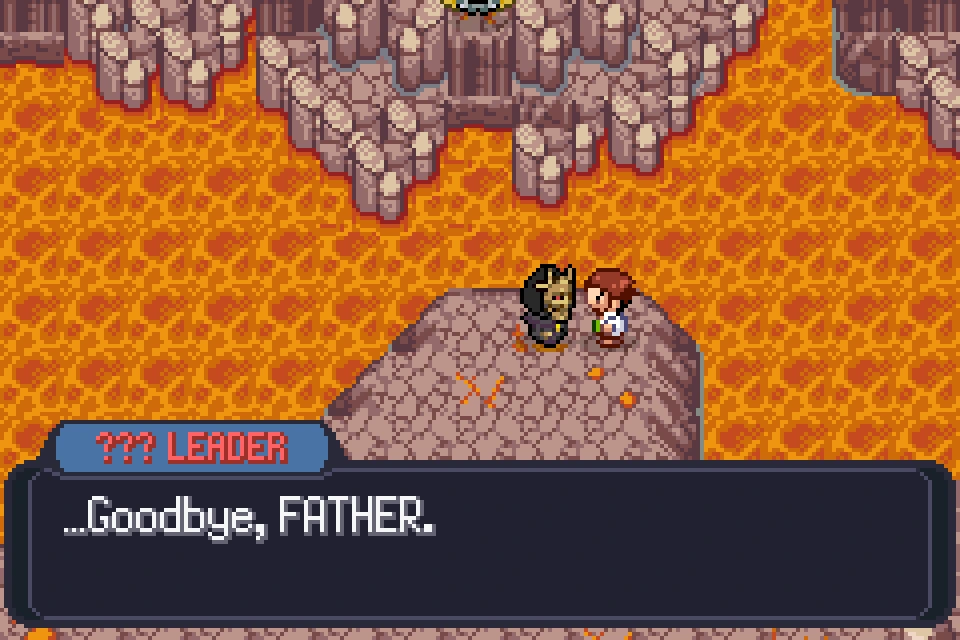
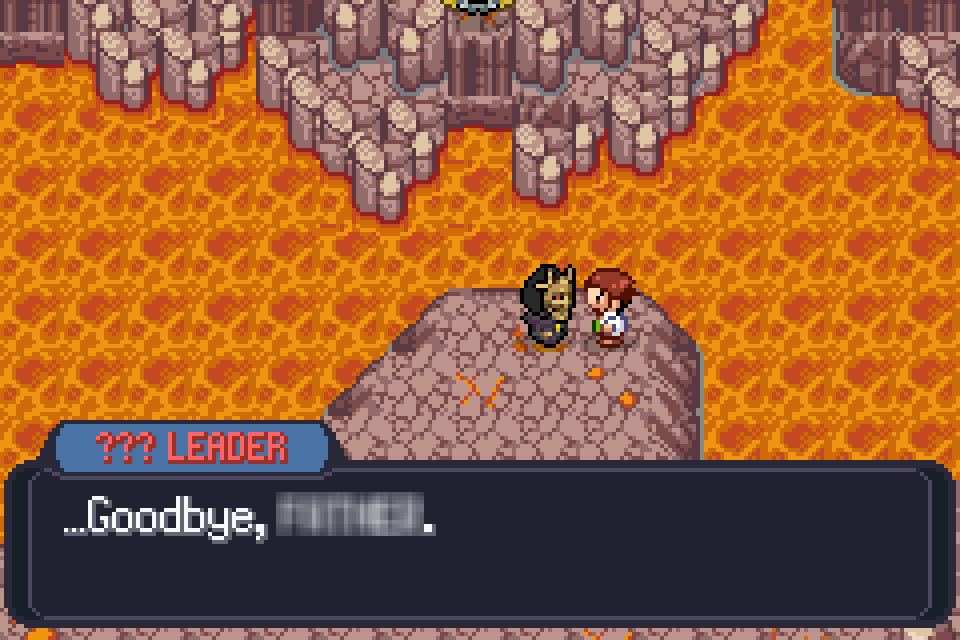
Site: screenshots become a scrollable rail, changelog becomes bullets
Adds seven captures from the hackdex set and swaps the summit reveal for the
censored version. Stills are upscaled 4x with NEAREST to match the existing
960x640 assets; the three animations stay at the GBA's native 240x160, since a
4x animated webp of 127 frames is huge for no gain and 240x160 is the same 3:2
the tile already expects. All eight come to 247 KB.

The hackdex doubles.png is left out on purpose - it is the same shot as the
existing doubles.webp, just at native resolution, and would have put the same
battle on screen twice.

Thirteen tiles is a wall as a grid, so the screenshots now share .cast-rail's
scroller rather than getting one of their own: same gesture handling, same
snap, one place to fix it. Checked at 375x812 and on desktop - the tile is 78%
of a phone screen so the next one peeks in, snap engages, the wheel moves the
rail sideways, and at the far end the wheel is handed back to the page so
scrolling never traps. The page itself never scrolls sideways.

The rail hook is now [data-rail] and the JS loops over every match; it used
querySelector before and would have ignored the second rail entirely.

Marquee gains RANDOMIZER MODE (in both copies - the duplicate is what makes
the loop seamless). Changelog is short bullets now, detail left to GitHub.

diff --git a/docs/index.html b/docs/index.html
@@ -93,8 +93,8 @@
   <!-- ── marquee ────────────────────────────────────────────────────── -->
   <div class="marquee" aria-hidden="true">
     <div class="marquee-track">
-      <span>GENS I–X</span><span class="d">◆</span><span>64 NEW MAPS</span><span class="d">◆</span><span>12 TRACKED QUESTS</span><span class="d">◆</span><span>4 SECRET BOSS FIGHTS</span><span class="d">◆</span><span>PLAY IT NOW IN BROWSER</span><span class="d">◆</span><span>NEW QOL AND BATTLE MECHANICS</span><span class="d">◆</span>
-      <span>GENS I–X</span><span class="d">◆</span><span>64 NEW MAPS</span><span class="d">◆</span><span>12 TRACKED QUESTS</span><span class="d">◆</span><span>4 SECRET BOSS FIGHTS</span><span class="d">◆</span><span>PLAY IT NOW IN BROWSER</span><span class="d">◆</span><span>NEW QOL AND BATTLE MECHANICS</span><span class="d">◆</span>
+      <span>GENS I–X</span><span class="d">◆</span><span>RANDOMIZER MODE</span><span class="d">◆</span><span>64 NEW MAPS</span><span class="d">◆</span><span>12 TRACKED QUESTS</span><span class="d">◆</span><span>4 SECRET BOSS FIGHTS</span><span class="d">◆</span><span>PLAY IT NOW IN BROWSER</span><span class="d">◆</span><span>NEW QOL AND BATTLE MECHANICS</span><span class="d">◆</span>
+      <span>GENS I–X</span><span class="d">◆</span><span>RANDOMIZER MODE</span><span class="d">◆</span><span>64 NEW MAPS</span><span class="d">◆</span><span>12 TRACKED QUESTS</span><span class="d">◆</span><span>4 SECRET BOSS FIGHTS</span><span class="d">◆</span><span>PLAY IT NOW IN BROWSER</span><span class="d">◆</span><span>NEW QOL AND BATTLE MECHANICS</span><span class="d">◆</span>
     </div>
   </div>
 
@@ -104,7 +104,7 @@
       <div class="kicker">WHO YOU'LL MEET</div>
       <div class="rail-hint">scroll →</div>
     </div>
-    <div class="cast-rail" data-cast-rail>
+    <div class="cast-rail" data-rail>
       <article class="cast" data-reveal>
         <div class="cast-art"><img src="assets/art/clarkson.webp" width="560" height="560" loading="lazy" alt="Professor Clarkson"><span class="scanlines"></span></div>
         <div class="cast-body">
@@ -206,19 +206,46 @@
       <span class="trailer-label">TRAILER<br><span>COMING SOON</span></span>
     </div>
 
-    <div class="kicker mt" data-reveal>SCREENSHOTS</div>
-    <div class="shot-grid">
+    <div class="rail-head mt" data-reveal>
+      <div class="kicker">SCREENSHOTS</div>
+      <div class="rail-hint">scroll →</div>
+    </div>
+    <div class="shot-rail" data-rail>
+      <figure class="shot" data-reveal>
+        <img src="assets/media/title-screen.webp" width="240" height="160" loading="lazy" alt="The animated title screen: a nebula over a snow-capped peak, the Pokémon logo, and Shadow Jirachi hovering above the summit.">
+        <figcaption><b>TITLE SCREEN</b><span>NEW IN 1.2.1</span></figcaption>
+      </figure>
+      <figure class="shot" data-reveal>
+        <img src="assets/media/siren-allison.webp" width="240" height="160" loading="lazy" alt="Siren Allison's name banner sweeping across the screen as she swims in toward the beach.">
+        <figcaption><b>SIREN ALLISON</b><span>BOSS FIGHT</span></figcaption>
+      </figure>
+      <figure class="shot" data-reveal>
+        <img src="assets/media/shin-tokyo.webp" width="240" height="160" loading="lazy" alt="A rain-lit Shin-Tokyo street at night, with a cycling ALL HAIL billboard and patrolling guards.">
+        <figcaption><b>SHIN-TOKYO</b><span>OVERWORLD</span></figcaption>
+      </figure>
       <figure class="shot" data-reveal>
         <img src="assets/media/doubles.webp" width="960" height="640" loading="lazy" alt="A double battle: Baxcalibur and Armor Mewtwo facing Rayquaza and Dracovish, with the battle menu open.">
         <figcaption><b>DOUBLE BATTLE</b><span>BATTLE</span></figcaption>
+      </figure>
+      <figure class="shot" data-reveal>
+        <img src="assets/media/shadow-jirachi.webp" width="960" height="640" loading="lazy" alt="A battle against a Shadow Jirachi, its move list showing Meteor Mash, Healing Wish, Rest and Future Sight.">
+        <figcaption><b>SHADOW JIRACHI</b><span>BATTLE</span></figcaption>
+      </figure>
+      <figure class="shot" data-reveal>
+        <img src="assets/media/summit-reveal.webp" width="960" height="640" loading="lazy" alt="Two figures facing each other on a rock above molten ground, mid-confrontation.">
+        <figcaption><b>THE SUMMIT REVEAL</b><span>STORY</span></figcaption>
+      </figure>
+      <figure class="shot" data-reveal>
+        <img src="assets/media/edwards.webp" width="960" height="640" loading="lazy" alt="General Edwards on a rain-lashed dock, telling the player that use of deadly force is authorized.">
+        <figcaption><b>GENERAL EDWARDS</b><span>STORY</span></figcaption>
       </figure>
       <figure class="shot" data-reveal>
         <img src="assets/media/munen-lake.webp" width="832" height="444" loading="lazy" alt="Munen Lake overworld: a frozen surface with cracked ice tiles and boulders.">
         <figcaption><b>MUNEN LAKE</b><span>OVERWORLD</span></figcaption>
       </figure>
       <figure class="shot" data-reveal>
-        <img src="assets/media/edwards.webp" width="960" height="640" loading="lazy" alt="General Edwards on a rain-lashed dock, telling the player that use of deadly force is authorized.">
-        <figcaption><b>GENERAL EDWARDS</b><span>STORY</span></figcaption>
+        <img src="assets/media/ryuden-island.webp" width="960" height="640" loading="lazy" alt="Arriving on Ryuden Island, its name card shown across the top of a palm-lined shore.">
+        <figcaption><b>RYUDEN ISLAND</b><span>OVERWORLD</span></figcaption>
       </figure>
       <figure class="shot" data-reveal>
         <img src="assets/media/battle-beach.webp" width="1024" height="448" loading="lazy" alt="Coastal battle backdrop with palm trees and surf on pale sand.">
@@ -229,8 +256,12 @@
         <figcaption><b>LAKE ENCOUNTER</b><span>BATTLE</span></figcaption>
       </figure>
       <figure class="shot" data-reveal>
-        <img src="assets/media/summit-reveal.webp" width="960" height="640" loading="lazy" alt="Two figures facing each other on a rock above molten ground, mid-confrontation.">
-        <figcaption><b>THE SUMMIT REVEAL</b><span>STORY</span></figcaption>
+        <img src="assets/media/region-map.webp" width="960" height="640" loading="lazy" alt="The region map open on the FLY screen with Shin-Tokyo selected.">
+        <figcaption><b>THE REGION MAP</b><span>POST-GAME</span></figcaption>
+      </figure>
+      <figure class="shot" data-reveal>
+        <img src="assets/media/private-jet.webp" width="960" height="640" loading="lazy" alt="Nessa beside a parked jet, telling the player that FLY and the PJ will take them anywhere.">
+        <figcaption><b>THE PRIVATE JET</b><span>POST-GAME</span></figcaption>
       </figure>
     </div>
   </section>
@@ -369,22 +400,45 @@
         <div class="change" data-reveal>
           <span class="change-dot"></span>
           <div class="change-head"><span class="change-v">v1.2.1</span><span class="change-date">28 August 2026</span></div>
-          <p>Hotfix. Shadow Pokémon can Mega Evolve while holding their stone, and any Pokémon carrying one now shows its Mega form on the Hall of Fame and resume screens. The Jirachi waiting at the summit is the right one. The ship at the end of the story sails again, to the post-game Battle Frontier. Siren Allison spots you from the water, swims in and comes ashore to battle. New title screen. Save-compatible with v1.2.0.</p>
+          <ul>
+            <li>Defragmented Siren Allison. She swims now.</li>
+            <li>Restored Shadow Jirachi's aura — the wrong Jirachi had been turning up to its own boss fight.</li>
+            <li>Upgraded the title screen art.</li>
+            <li>Added post-game Battle Frontier access. The ship accepts passengers at last.</li>
+            <li>Shadow Pokémon remembered how to Mega Evolve.</li>
+            <li>Megas now turn up for the Hall of Fame photo instead of reverting.</li>
+          </ul>
         </div>
         <div class="change" data-reveal>
           <span class="change-dot"></span>
           <div class="change-head"><span class="change-v">v1.2.0</span><span class="change-date">27 August 2026</span></div>
-          <p>Randomizer Mode: a settings screen at New Game rerolls starters, wild Pokémon and Trainer teams independently, with levels untouched and Shadow Pokémon left alone. A new dragon starter trio, a post-game chart for the archipelago, the yacht questline, Mega Stones, and a Game Corner worth spending coins at.</p>
+          <ul>
+            <li>Randomizer Mode. Reroll starters, wilds and Trainers — levels stay exactly where they were.</li>
+            <li>A dragon starter trio: Gible, Frigibax and Axew.</li>
+            <li>Mega Stones, three of them lying around the Distortion World.</li>
+            <li>A Game Corner that finally sells things worth the coins.</li>
+            <li>The yacht questline pays out.</li>
+          </ul>
         </div>
         <div class="change" data-reveal>
           <span class="change-dot"></span>
           <div class="change-head"><span class="change-v">v1.1.0</span><span class="change-date">13 August 2026</span></div>
-          <p>Name your own character at New Game. Custom battle backdrops across the whole region, day-to-night sea battles, and Shadow sprites that finally sit right. Post-game FLY reaches every area. Save-compatible with v1.0.0 — keep your run.</p>
+          <ul>
+            <li>Name your own character.</li>
+            <li>Custom battle backdrops region-wide, including sea battles that know what time it is.</li>
+            <li>Shadow sprites that sit right.</li>
+            <li>Post-game FLY reaches everywhere.</li>
+            <li>Save-compatible with v1.0.0 — keep your run.</li>
+          </ul>
         </div>
         <div class="change" data-reveal>
           <span class="change-dot"></span>
           <div class="change-head"><span class="change-v">v1.0.0</span><span class="change-date">12 August 2026</span></div>
-          <p>First public release. The full three-act campaign, an original region, and the Shadow capture-and-purification system.</p>
+          <ul>
+            <li>The whole three-act campaign.</li>
+            <li>An original region.</li>
+            <li>Shadow Pokémon: snag them, purify them.</li>
+          </ul>
         </div>
       </div>
       <p class="change-note" data-reveal>Every release is listed on the <a href="https://github.com/jmaloney95/Wishes-Game/releases">releases page</a>.</p>

diff --git a/docs/assets/styles.css b/docs/assets/styles.css
@@ -328,14 +328,13 @@ p { margin: 0; }
 .feature p { margin-top: 10px; font-size: 14.5px; line-height: 1.6; color: rgba(233, 233, 237, .66); text-wrap: pretty; }
 
 /* — media ──────────────────────────────────────────────────────────── */
-.shot-grid {
-  display: grid; grid-template-columns: repeat(auto-fit, minmax(280px, 1fr));
-  gap: 14px; margin-top: 20px;
-}
+/* .shot-rail shares .cast-rail's scroller below -- same gesture handling,
+   same snap, one place to fix it. */
 /* The tile owns the aspect ratio, not the image: the images carry width/height
    attributes, which would otherwise fix their height and leave CSS
    aspect-ratio with nothing to solve for. */
 .shot {
+  flex: 0 0 min(78vw, 330px); scroll-snap-align: start;
   position: relative;
   border-radius: var(--radius-md); overflow: hidden;
   background: var(--color-surface); box-shadow: var(--shadow-sm);
@@ -413,7 +412,8 @@ p { margin: 0; }
 .rail-head { display: flex; align-items: baseline; gap: 16px; }
 .rail-hint { font-size: 12.5px; white-space: nowrap; color: rgba(233, 233, 237, .4); }
 
-.cast-rail {
+.cast-rail,
+.shot-rail {
   display: flex; gap: 16px; margin: 14px calc(var(--gutter) * -1) 0;
   /* Vertical padding leaves room for the cards' hover lift and shadow, which
      overflow-y: hidden would otherwise crop. */
@@ -733,7 +733,12 @@ html.has-fs-player, html.has-fs-player body { overflow: hidden; }
 .change-head { display: flex; gap: 12px; align-items: baseline; flex-wrap: wrap; }
 .change-v { font-family: var(--font-pixel); font-size: 10px; }
 .change-date { font-size: 12.5px; color: rgba(233, 233, 237, .45); }
-.change p { margin-top: 8px; font-size: 14.5px; line-height: 1.6; color: rgba(233, 233, 237, .7); text-wrap: pretty; }
+.change ul { margin-top: 8px; padding-left: 17px; }
+.change li {
+  margin-top: 4px; font-size: 14.5px; line-height: 1.55;
+  color: rgba(233, 233, 237, .7); text-wrap: pretty;
+}
+.change li::marker { color: var(--color-accent); }
 .change-note { font-size: 13.5px; color: rgba(233, 233, 237, .45); }
 
 /* — faq ────────────────────────────────────────────────────────────── */
@@ -929,7 +934,6 @@ html.has-fs-player, html.has-fs-player body { overflow: hidden; }
   .section > h2 { margin-top: 12px; }
   .section h2.h-sm { margin: 12px 0 16px; }
 
-  .shot-grid { grid-template-columns: 1fr 1fr; gap: 10px; margin-top: 16px; }
   .shot figcaption { padding: 9px 10px; font-size: 7px; line-height: 1.7; }
 
   .feature-grid { gap: 12px; margin-top: 24px; }

diff --git a/docs/assets/site.js b/docs/assets/site.js
@@ -188,18 +188,20 @@
 
   /* ── horizontal cast rail: let a vertical wheel scroll it sideways ── */
   function wireCastRail() {
-    var rail = document.querySelector("[data-cast-rail]");
-    if (!rail) return;
-    rail.addEventListener("wheel", function (e) {
-      if (Math.abs(e.deltaX) > Math.abs(e.deltaY)) return;
-      var max = rail.scrollWidth - rail.clientWidth;
-      // Only hijack the wheel while the rail still has somewhere to go,
-      // so the page keeps scrolling normally at either end.
-      if ((e.deltaY < 0 && rail.scrollLeft > 0) || (e.deltaY > 0 && rail.scrollLeft < max)) {
-        e.preventDefault();
-        rail.scrollLeft += e.deltaY;
-      }
-    }, { passive: false });
+    // Every [data-rail] gets this, not just the cast: the screenshots are a
+    // rail too now, and a page with two of them should behave the same on both.
+    Array.prototype.forEach.call(document.querySelectorAll("[data-rail]"), function (rail) {
+      rail.addEventListener("wheel", function (e) {
+        if (Math.abs(e.deltaX) > Math.abs(e.deltaY)) return;
+        var max = rail.scrollWidth - rail.clientWidth;
+        // Only hijack the wheel while the rail still has somewhere to go,
+        // so the page keeps scrolling normally at either end.
+        if ((e.deltaY < 0 && rail.scrollLeft > 0) || (e.deltaY > 0 && rail.scrollLeft < max)) {
+          e.preventDefault();
+          rail.scrollLeft += e.deltaY;
+        }
+      }, { passive: false });
+    });
   }
 
   /* ── reveal on scroll ───────────────────────────────────────────── */

diff --git a/WoT_Act3_Status_Handoff.md b/WoT_Act3_Status_Handoff.md
@@ -338,6 +338,17 @@
 - **`release_notes_v1.1.0.md`** at workspace root — paste-ready for the GitHub release.
 - REMAINING (Joe / gh window): tag + publish the release with the bps attached; Pages redeploys the site on push.
 
+### 2026-08-28 (round 27) — site: screenshots become a rail, changelog becomes bullets (site only, no ROM change)
+- **Eight new media assets** built from `custom ui/Website Screenshots/hackdex/` into `docs/assets/media/`. Stills are upscaled **4x with NEAREST** to 960x640, matching the existing assets and guaranteeing crisp pixels whatever a browser does with `image-rendering: pixelated`. Animations stay at the GBA's native **240x160** — a 4x animated webp of 127 frames is enormous for no gain, and 240x160 is the same 3:2 the tile's `aspect-ratio` expects, so layout is identical either way. Total for all eight: **247 KB**.
+- **`summit-reveal.webp` was REPLACED with the censored capture** (the leader's name is redacted in-game art), as asked.
+- **`doubles.png` was deliberately NOT added** — compared against the existing `doubles.webp` and it is the same shot, just the native-resolution source of it. Adding it would have put the same battle on screen twice.
+- **WEBP ANIMATION GOTCHA:** PIL reports `duration = 0` for every frame of an animated webp on read-back, and coalesces identical consecutive frames (82 source frames of the near-static title screen became 6). Neither is a fault — parsing the container's **ANMF chunks** (24-bit LE duration at payload offset 12) shows the totals are preserved exactly: 2740 / 4250 / 3240 ms, identical to the source GIFs. **Verify webp timing by parsing ANMF, never by PIL read-back.**
+- **The screenshot grid became a rail**, sharing `.cast-rail`'s scroller rather than getting its own: same gesture handling, same snap, one place to fix it. 13 tiles. Verified in-browser at 375x812 and desktop: tile is 78% of a phone screen so the next peeks in, snap `x`/`start` engages (a set to 600 lands at 639), the wheel handler moves the rail horizontally, and **at the far end the wheel is NOT intercepted** so the page scrolls on normally. `document.scrollWidth == clientWidth` at mobile width — the page itself never scrolls sideways.
+- **`[data-cast-rail]` became `[data-rail]`** and the JS now loops over all of them; it previously used `querySelector` (singular) and would have ignored the second rail entirely.
+- **Marquee gained RANDOMIZER MODE.** It is duplicated twice in the markup to make the loop seamless — **both copies must change or the track jumps halfway through**.
+- **Changelog rewritten as short bullets** for all four versions, casual, with the detail left to GitHub. `.change p` styling replaced with `.change ul/li`.
+- **SPLICE GOTCHA (cost a wasted pass):** `s.index("      </div>")` matches INSIDE `"        </div>"` — six spaces are a substring of eight. The changelog splice ended at the first entry and silently left the rest of the old list behind, which only surfaced as a div-balance check (121 open / 122 close). **Anchor a line-oriented splice on `eol + indent + tag`, never the bare tag.** Tag-balance counts before and after are the cheap way to catch it: 115/115 div, 8/8 section, 14/14 figure, 4/4 ul.
+
 ### 2026-08-28 (round 26) — v1.2.1 hotfix released; site bumped; screenshots rewritten out of history
 - **v1.2.1 = the hotfix round + the title screen.** Game commits since the v1.2.0 pointer (`6831f26867`): `fc985e5472` (Shadow mega evolve, Shadow Jirachi at the summit, mega forms on the champion/resume screens, the end-game ferry, Siren Allison) and `985b416636` (the composited title screen). 33 files, +1422 / -76.
 - **SAVE-COMPATIBLE, and this was verified rather than assumed** before the site was allowed to promise it: `git diff 6831f26867..HEAD` touches none of `global.h`, `pokemon.h`, `save.h`, `save.c`, `flags.h`, `vars.h`, and contains zero `struct SaveBlock` changes.
